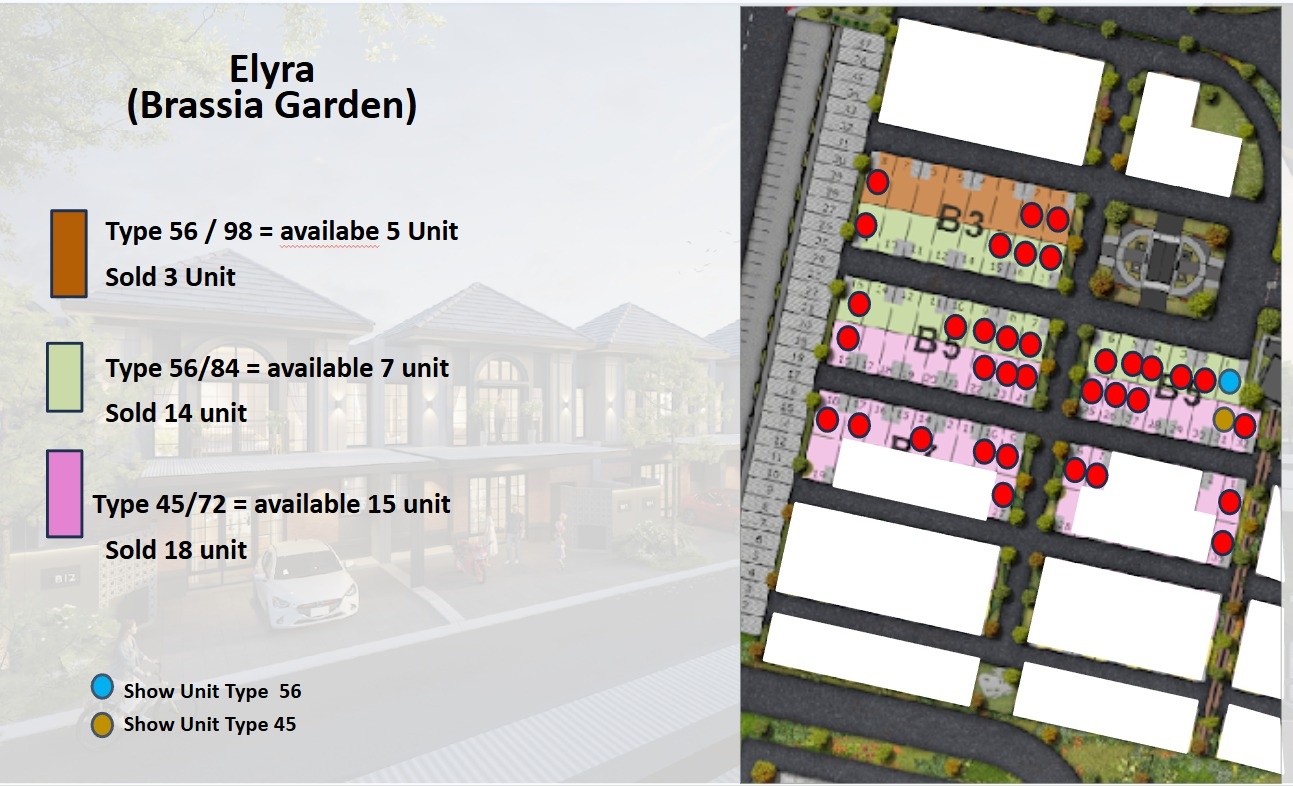
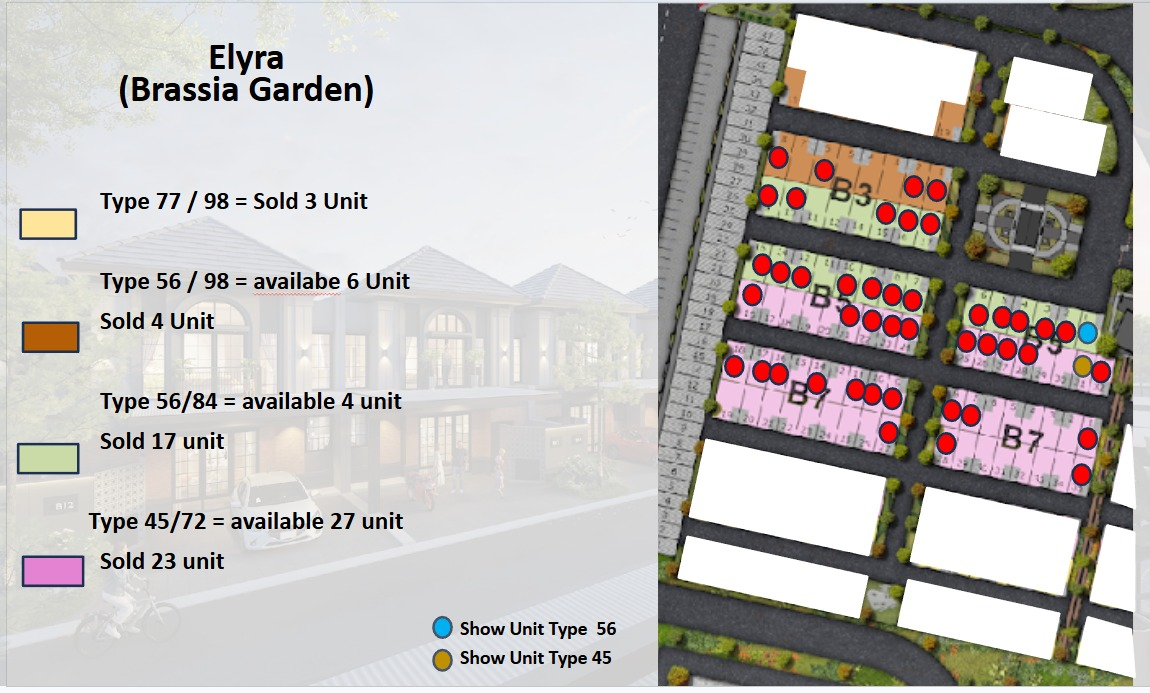
Update stock images for clusters

diff --git a/src/app/clusters/[id]/page.js b/src/app/clusters/[id]/page.js
@@ -126,28 +126,28 @@ const brassiaTypes = {
     fasad: "/cluster brassia-garden-new/Fasad Myzora 33 72.jpg", denah: "/cluster brassia-garden-new/denah Myzora 33 72.jpg",
     fasilitasImage: "/cluster brassia-garden-new/fasilitas 33 72.png",
     stock: "Sisa 5 Unit", statusColor: "text-emerald-400",
-    siteplan: "/cluster brassia-garden-new/Update Stock Myzora.jpeg"
+    siteplan: "/cluster brassia-garden-new/Update stock Myzoraa.jpeg"
   },
   "myzora-45": { 
     price: "Mulai Rp 750 Juta", lt: "72m²", lb: "45m²", bed: "3", bath: "1", carport: "1", listrik: "2200 Watt",
     fasad: "/cluster brassia-garden-new/fasad Myzora 45 72.jpeg", denah: "/cluster brassia-garden-new/denah myzora 45 72.png",
     fasilitasImage: "/cluster brassia-garden-new/fasilitas 45 72.png",
     stock: "Sisa 2 Unit", statusColor: "text-orange-400",
-    siteplan: "/cluster brassia-garden-new/Update Stock Myzora.jpeg"
+    siteplan: "/cluster brassia-garden-new/Update stock Myzoraa.jpeg"
   },
   "myzora-56": { 
     price: "Mulai Rp 992 Juta", lt: "84m²", lb: "56m²", bed: "3", bath: "2", carport: "1", listrik: "2200 Watt",
     fasad: "/cluster brassia-garden-new/fasad myzora 56 84.jpg", denah: "/cluster brassia-garden-new/denah myzora 56 84.png",
     fasilitasImage: "/cluster brassia-garden-new/fasilitas 56 84.png",
     stock: "Sold Out", statusColor: "text-red-400",
-    siteplan: "/cluster brassia-garden-new/Update Stock Myzora.jpeg"
+    siteplan: "/cluster brassia-garden-new/Update stock Myzoraa.jpeg"
   },
   "myzora-77": { 
     price: "Mulai Rp 1.2 Miliar", lt: "98m²", lb: "77m²", bed: "4", bath: "2", carport: "2", listrik: "2200 Watt",
     fasad: "/cluster brassia-garden-new/fasad myzora 77 98.jpg", denah: "/cluster brassia-garden-new/denah myzora 77 98.png",
     fasilitasImage: "/cluster brassia-garden-new/Fasilitas 77 98.png",
     stock: "Last Unit", statusColor: "text-red-500",
-    siteplan: "/cluster brassia-garden-new/Update Stock Myzora.jpeg"
+    siteplan: "/cluster brassia-garden-new/Update stock Myzoraa.jpeg"
   },
   "ellyra-56-84": { 
     price: "Mulai Rp 1.1 Miliar", lt: "84m²", lb: "56m²", bed: "2", bath: "2", carport: "1",
@@ -195,14 +195,14 @@ const deroraTypes = {
     fasad: "/cluster avesa garden/DERORA/fasad derora 33 72.jpg", denah: "/cluster avesa garden/DERORA/denah unit derora 33 72.png",
     fasilitasImage: null,
     stock: null, statusColor: "text-emerald-400",
-    siteplan: null
+    siteplan: "/cluster avesa garden/DERORA/Update stock deroraa.jpeg"
   },
   "derora-59": { 
     price: "Rp 1.05 Miliar", lt: "84m²", lb: "59m²", bed: "3", bath: "2", carport: "1", listrik: "2200 Watt",
     fasad: "/cluster avesa garden/DERORA/fasad derora 59 84.jpg", denah: "/cluster avesa garden/DERORA/denah unit derora 59 84.png",
     fasilitasImage: null,
     stock: null, statusColor: "text-emerald-400",
-    siteplan: null
+    siteplan: "/cluster avesa garden/DERORA/Update stock deroraa.jpeg"
   }
 };
 
@@ -229,14 +229,14 @@ const westonTypes = {
     fasad: "/RUKO WESTON GATEWAY/galeri_cluster7_693135f9dd540 (2).jpg", denah: null,
     fasilitasImage: null,
     stock: null, statusColor: "text-red-500",
-    siteplan: null
+    siteplan: "/RUKO WESTON GATEWAY/Update stock ruko westonn.jpeg"
   },
   "weston-100": { 
     price: "Rp 1.415 Miliar", lt: "100m²", lb: "60m²", bed: "-", bath: "2", carport: "2", listrik: "2200 Watt",
     fasad: "/RUKO WESTON GATEWAY/galeri_cluster7_6931360434110 (2).jpg", denah: null,
     fasilitasImage: null,
     stock: null, statusColor: "text-red-500",
-    siteplan: null
+    siteplan: "/RUKO WESTON GATEWAY/Update stock ruko westonn.jpeg"
   }
 };
 
